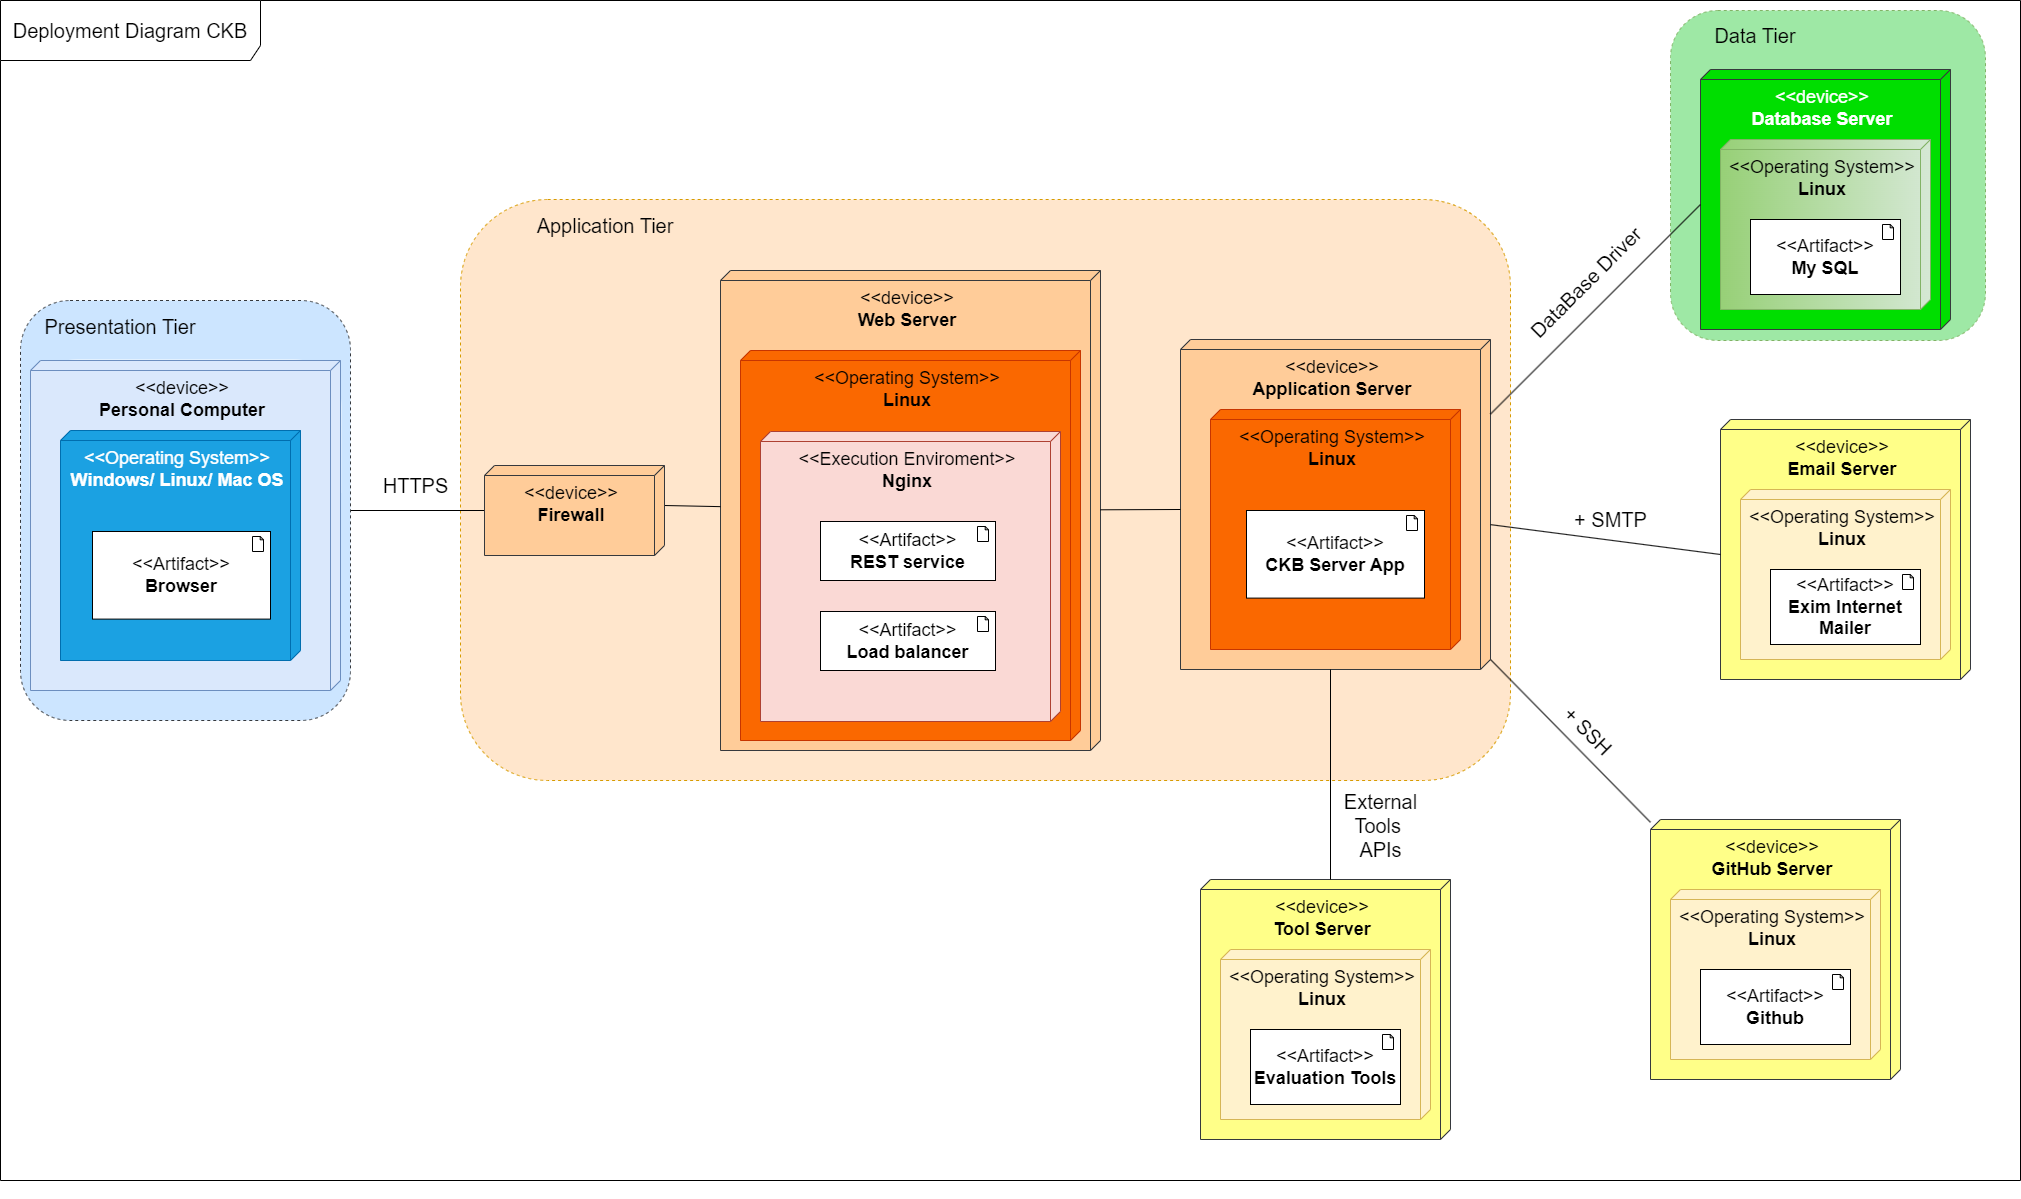
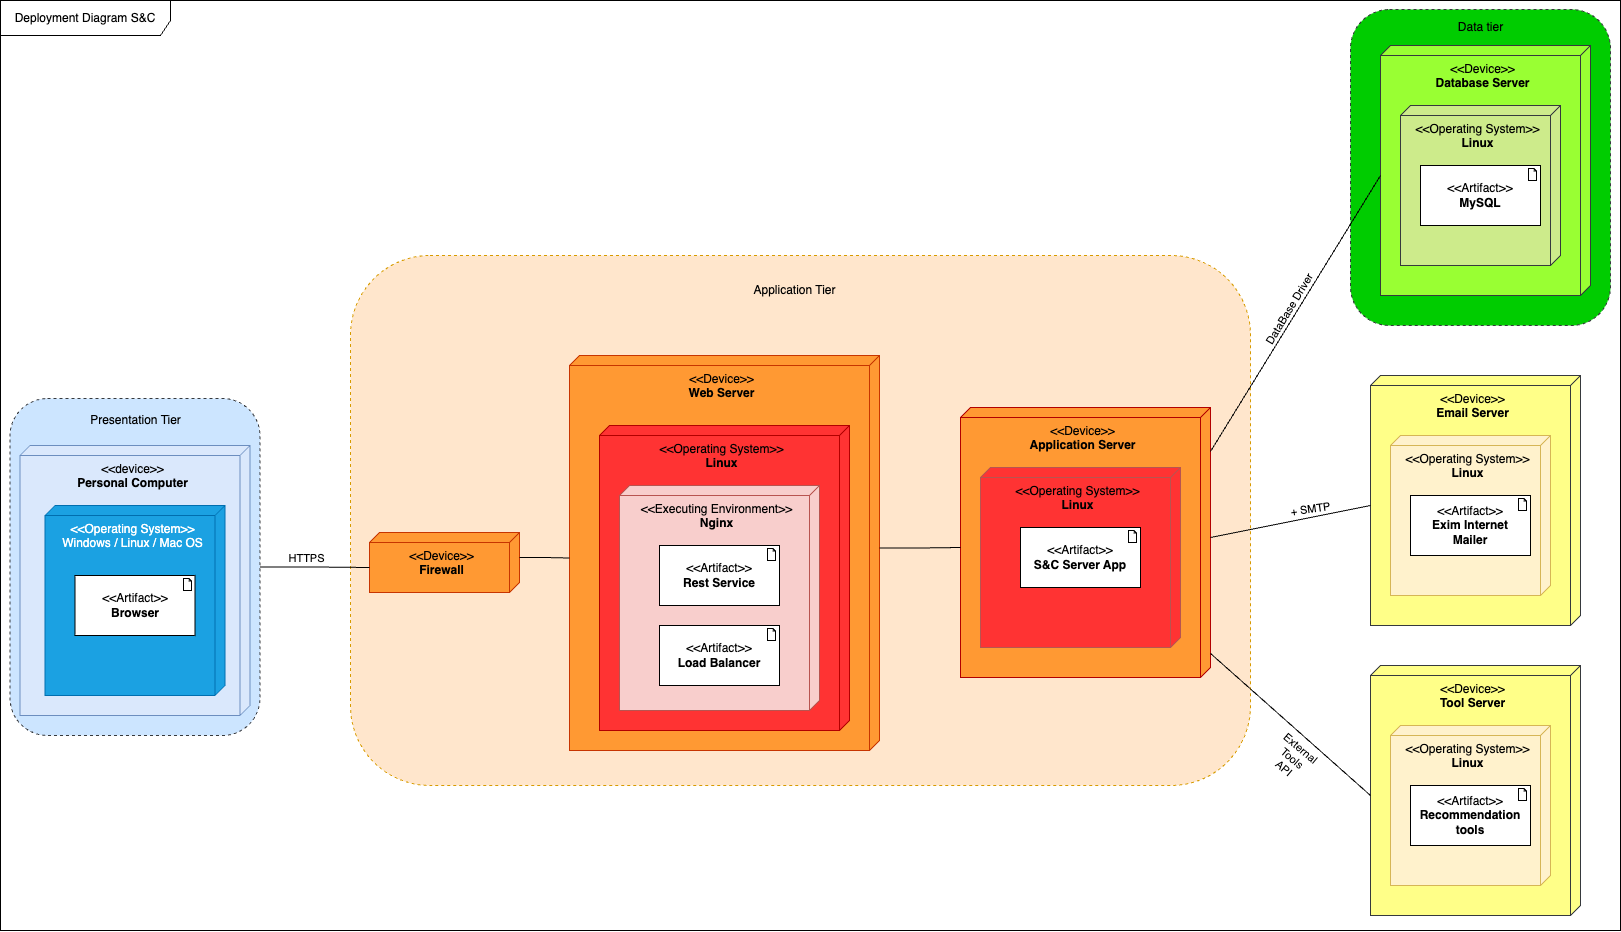
Added chapter 2.3 - Deployement View

diff --git a/DD/LaTeX/Chapters/2_Architectural_Design.tex b/DD/LaTeX/Chapters/2_Architectural_Design.tex
@@ -169,7 +169,7 @@ Here we represent an overview of how the entire S\&C architecture is composed of
 \section{Deployment View}
 \label{sec:deployment_view}%
 
-In this section it will be shown the Deployment diagram of the CKB system, followed by a description of the components and their interactions:
+In this section, the Deployment diagram of the S\&C system will be shown, followed by a description of the components and their interactions:
 \begin{figure}[H]
     \begin{center}
         \includegraphics[width=1\linewidth]{CD_DD/DeploymentDiagram.png}
@@ -179,34 +179,25 @@ In this section it will be shown the Deployment diagram of the CKB system, follo
 \end{figure}
 
 \paragraph{Personal Computer:}
-STs and EDs can access to the system by using any type of personal computer through their favorite web browser. The browser will communicate with the Web Server. Users can also use every device that allows them to search on a web browser, such as mobile phone, tablet, ecc.
+STs and CPs can access to the S\&C system through their preferred browser. The browser will communicate with the Web Server. Users can also use every device that allows them to search on a web browser, such as mobile phone, tablet, ecc.
 
 \paragraph{Web Server:}
-The Web Server provides access to the Application Server’s service to all the User that reaches the system through a web browser. In particular, the Web Server does not execute any business logic, but it simply does some load balancing on the receive requests from the client to the various Application Servers, in order to handle large User traffic.\\
-It also provides to the client's browsers the HTML, JSON, Javascript and CSS files for making the rendering of the pages.
+The Web Server provides access to the Application Server to everyone that access to the S\&C system through a web browser. It doesn't handle any logic for the system, but it has the very important task to balance the load request incoming from the users. It also provide all the necessary file to have a right render of the page, such as HTML, CSS, JSON and JavaScript.
 
 \paragraph{Firewall:}
 It provides a way to limit the attack surface of any potential intruder by providing strict access rules.
 
 \paragraph{Application Server:}
-The application server contains the business logic of the entire system. Moreover, it communicates to the client through HTTPS protocol managed by the Web Server. The various requests coming from the Web Server are routed to the corresponding module thanks to the Dashboard Manager.\\
-Furthermore, it communicates to the Database Server through the model gateway. This node is replicated in order to handle large user traffic.
+The application server contains all the logic at the base of the S\&C system. It communicates with the clients through HTTPS protocol managed by the Web Server. It also communicates with the Database Server through the DataBase Driver, with the Mail Server via SMTP  and with the Tool Server by using a dedicated API
 
 \paragraph{Database Server:}
-All the Data about Tournaments, Battles, Users, Groups and Badges are stored into the Database Server and managed by MySQL.\\
-The various Application Servers can retrieve information on this node through the model module and the database driver.
+All the data about Users, internships and matching are stored in the Database Server and managed by MySQL. The Application Servers can retrieve information by contacting the model module, which contacts the physical Database via the Database driver.
 
 \paragraph{Email Server:}
-After the registration, Users have to click on the link sent by eMail to confirm their profile. The Application Server, immediately after the registration, contacts the Email Server through SMTP protocol to send the confirmation eMail to the User.
-
-\paragraph{Github Server:}
-The dialogs with the Application Server node occur during the different Battle phases: when the ED creates a new Battle also a GitHub repository is created containing the code kata of the Battle and it is subsequently forked from the various STG.\\
-The GitHub Server is also periodically contacted for retrieving newly committed code on the main branch of the different STGs' repositories.
-For those scopes, the Application Server shall communicate with the Github Server through the SSH protocol.
-
+Once completed the registration process, Users have to confirm their profile by clicking on the link sent via Email by the Email Server. The application Server, after the registration process, contacts the Email Server through SMTP protocol to send the confirmation Email to the Users.
 
 \paragraph{Tool Server:}
-With the External Tool APIs the Application Server can contact the Tool Server and pass to it the code retrieved from the Github Server to be tested and evaluated.
+With the External Tool APIs, the Application Server can send useful information to the Tool Server, enhancing the precision of the algorithm. Furthermore the Application Server can decide to run the algorithm to retrieve other matches and send the notification to the related Users.
 
 \newpage
 \section{Runtime View}
